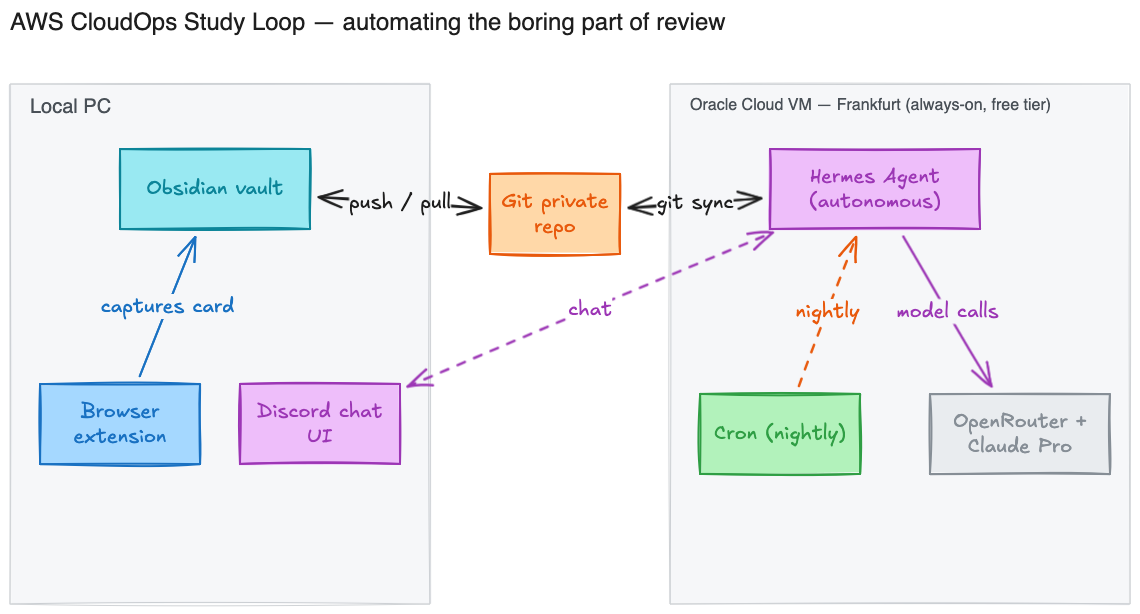
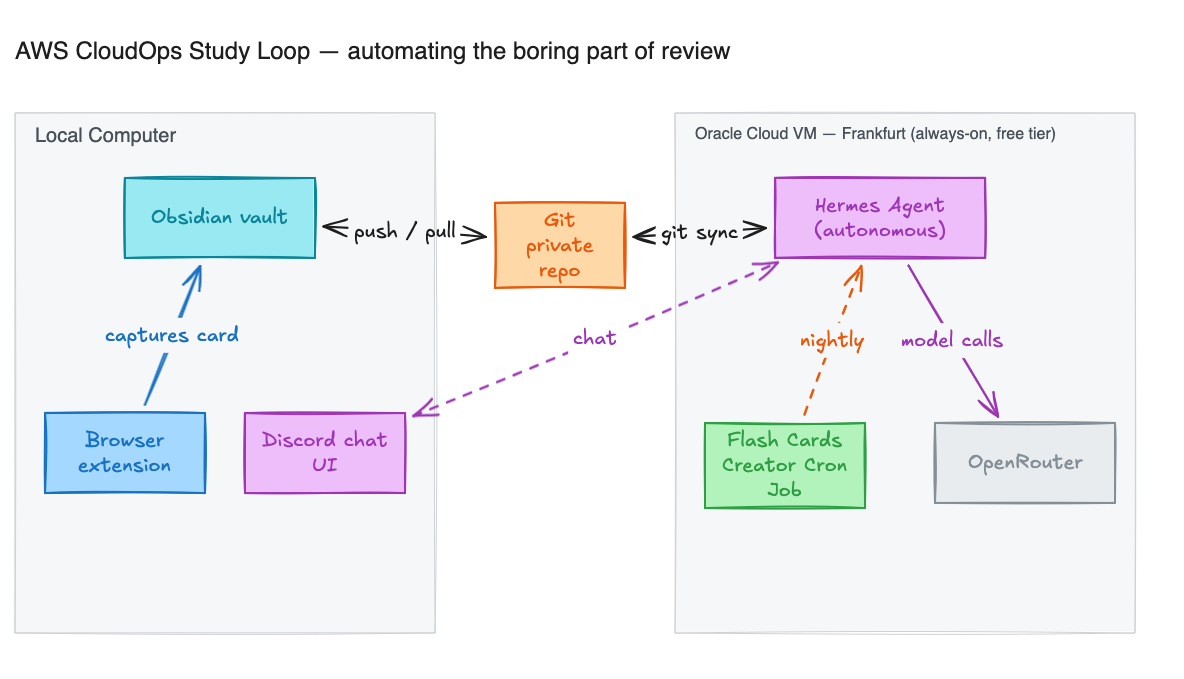
chore: fix errors (#21)
* chore: fix errors

* chore: updated the screenshot

diff --git a/src/components/about-me.tsx b/src/components/about-me.tsx
@@ -7,7 +7,7 @@ import Reveal from './reveal';
 import SectionHeading from './section-heading';
 
 const PULL_QUOTE =
-  "What keeps me hooked on this work is the moment a hard problem finally gives in — when the pieces click and a system you've been wrestling with just starts to hum.";
+  "What keeps me hooked on this work is the moment a hard problem finally gives in — when the pieces click and a system you've been wrestling with finally starts to work.";
 
 export default function AboutMe() {
   const { ref } = useSectionInView({

diff --git a/src/components/projects.tsx b/src/components/projects.tsx
@@ -125,7 +125,7 @@ export default function Projects() {
       {/* Floating preview that follows the cursor (pointer devices only) */}
       <div
         ref={previewRef}
-        className="pointer-events-none fixed left-0 top-0 z-40 hidden h-60 w-96 overflow-hidden border border-foreground lg:block"
+        className="pointer-events-none fixed left-0 top-0 z-40 hidden h-60 w-96 overflow-hidden border border-foreground opacity-0 lg:block"
         aria-hidden="true"
       >
         <div ref={previewTrackRef}>

diff --git a/src/components/page-containter.tsx b/src/components/page-containter.tsx
@@ -9,7 +9,7 @@ export default function PageContainer({ children, className, ...props }: PageCon
   return (
     <main
       className={cn(
-        'flex h-full w-full grow flex-col items-center justify-center gap-12 px-4 py-8 sm:gap-32 sm:pt-36',
+        'relative z-[1] flex h-full w-full grow flex-col items-center justify-center gap-12 px-4 py-8 sm:gap-32 sm:pt-36',
         className,
       )}
       {...props}

diff --git a/src/components/hero.tsx b/src/components/hero.tsx
@@ -55,7 +55,7 @@ export default function Hero() {
           ['Role', 'Backend Engineer'],
           ['Stack', 'Java · Kotlin'],
           ['Base', 'Porto, PT 41.14°N'],
-          ['Status', '● Available'],
+          ['Status', '● On call'],
         ].map(([k, v], i) => (
           <div
             key={k}
